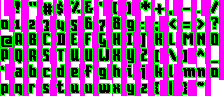
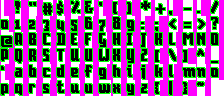
Fix kerning on Tilemap Sans

diff --git a/client/js/draw_map.js b/client/js/draw_map.js
@@ -639,19 +639,22 @@ function drawMap() {
 
 function drawText(ctx, x, y, text) {
 	let chicago = document.getElementById("chicago");
+	text = text.replace("&lt;", "<").replace("&gt;", ">").replace("&amp;", "&");
+
 	for (let i = 0; i < text.length; i++) {
 		let chr = text.charCodeAt(i) - 0x20;
-		if(chr < 0x20 || chr > 0x7E)
-			chr = 0x3F; // ?
+		if(chr < 0x00 || chr > 0x5E)
+			chr = 0x1F; // ?
 		let srcX = chr & 15;
 		let srcY = chr >> 4;
 		ctx.drawImage(chicago, srcX * 8, srcY * 8, 8, 8, x + i * 8, y, 8, 8);
 	}
 }
 
-const proportionalTextWidth = [3, 6, 8, 10, 7, 10, 9, 4, 5, 5, 10, 10, 4, 8, 4, 8, 8, 6, 7, 7, 8, 7, 8, 7, 8, 8, 4, 4, 8, 8, 8, 8, 12, 8, 8, 8, 9, 7, 7, 7, 8, 6, 6, 8, 7, 11, 9, 8, 8, 8, 8, 7, 8, 9, 8, 11, 8, 7, 7, 5, 8, 5, 8, 8, 4, 8, 8, 8, 8, 8, 8, 8, 8, 6, 4, 8, 5, 13, 9, 8, 8, 8, 7, 7, 8, 9, 8, 13, 8, 8, 7, 5, 4, 5, 8, 13];
+const proportionalTextWidth = [3, 6, 8, 10, 7, 10, 9, 4, 5, 5, 10, 12, 4, 10, 4, 8, 8, 6, 7, 7, 8, 7, 8, 7, 8, 8, 4, 4, 9, 10, 9, 8, 12, 8, 8, 8, 9, 7, 7, 8, 8, 6, 6, 8, 7, 11, 9, 8, 8, 8, 8, 7, 8, 9, 8, 11, 8, 7, 7, 5, 8, 5, 8, 8, 4, 8, 8, 8, 8, 8, 8, 8, 8, 6, 4, 8, 5, 13, 9, 8, 8, 8, 7, 7, 8, 9, 8, 12, 8, 8, 7, 5, 3, 5, 8, 13];
 function drawTextProportional(ctx, x, y, centered, text) {
 	let tilemap_sans = document.getElementById("tilemapsans");
+	text = text.replace("&lt;", "<").replace("&gt;", ">").replace("&amp;", "&");
 
 	if (centered) {
 		let total_width = 0;
@@ -677,8 +680,12 @@ function drawTextProportional(ctx, x, y, centered, text) {
 
 function drawTextSmall(ctx, x, y, text) {
 	let tomthumb = document.getElementById("tomthumb");
+	text = text.replace("&lt;", "<").replace("&gt;", ">").replace("&amp;", "&");
+
 	for (let i = 0; i < text.length; i++) {
 		let chr = text.charCodeAt(i) - 0x20;
+		if(chr < 0x00 || chr > 0x5E)
+			chr = 0x1F; // ?
 		let srcX = chr & 15;
 		let srcY = chr >> 4;
 		ctx.drawImage(tomthumb, srcX * 4, srcY * 6, 4, 6, x + i * 4, y, 4, 6);
